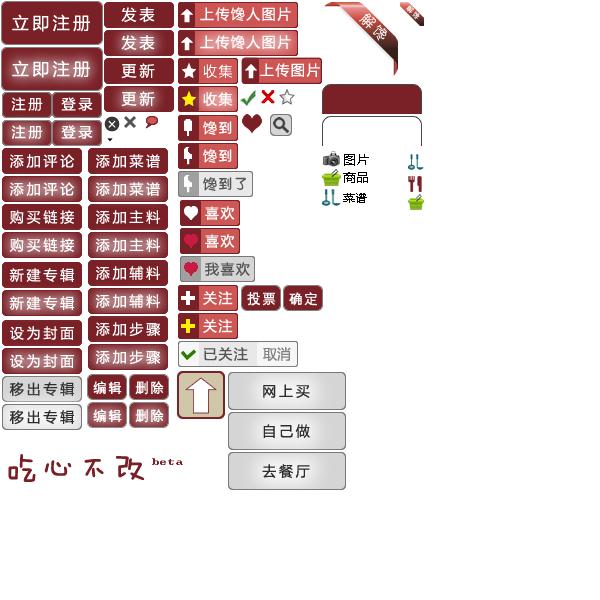
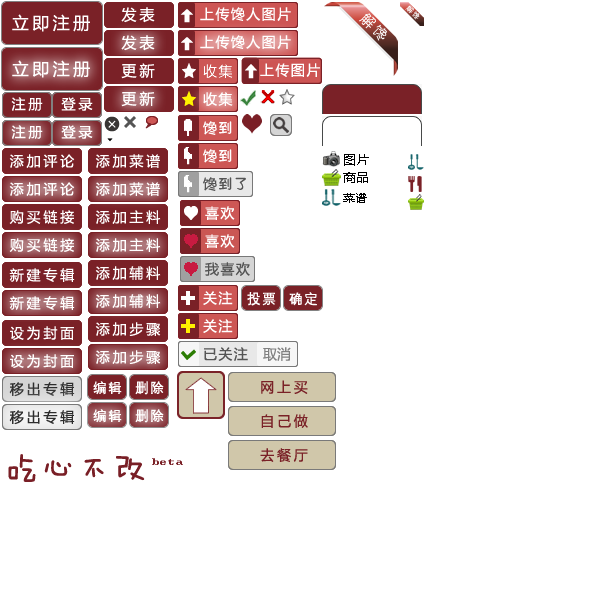
beta  1.0

Changed region(s): [[0.36, 0.6, 0.6, 0.84]]

diff --git a/app/assets/stylesheets/buttons.css.scss b/app/assets/stylesheets/buttons.css.scss
@@ -295,9 +295,9 @@ a.btn.btn_edit:hover{
 
 .btn.btn_back_to_top {
     z-index: 100;
-    width:46px;
-    height:46px;
-    background-position: -178px -372px;
+    width: 50px;
+    height: 50px;
+    background-position: -176px -370px;
     position: fixed;
     bottom: 10px;
     right: 20px;
@@ -321,22 +321,22 @@ a.btn.btn_edit:hover{
 }
 
 .btn.btn_product_solution {
-    width: 118px;
-    height: 38px;
+    width: 108px;
+    height: 30px;
     background-position: -228px -372px;
 }
 
 .btn.btn_recipe_solution {
-    width: 118px;
-    height: 38px;
-    background-position: -228px -412px;
+    width: 108px;
+    height: 30px;
+    background-position: -228px -406px;
 }
 
 .btn.btn_place_solution {
-    width: 118px;
-    height: 38px;
+    width: 108px;
+    height: 30px;
     opacity: 0.5;
-    background-position: -228px -452px;
+    background-position: -228px -440px;
 }
 
 .btn.btn_place_solution:hover {

diff --git a/app/controllers/syncs_controller.rb b/app/controllers/syncs_controller.rb
@@ -4,6 +4,10 @@ require 'crack/xml'
 class SyncsController < ApplicationController
 
     def new
+      #TODO
+      redirect_to sign_up_path, notice: t("notices.temp_third_party_redirect")
+      return
+
       case params[:type]
         when "sina"
            client = SilverOauth::Sina.new
